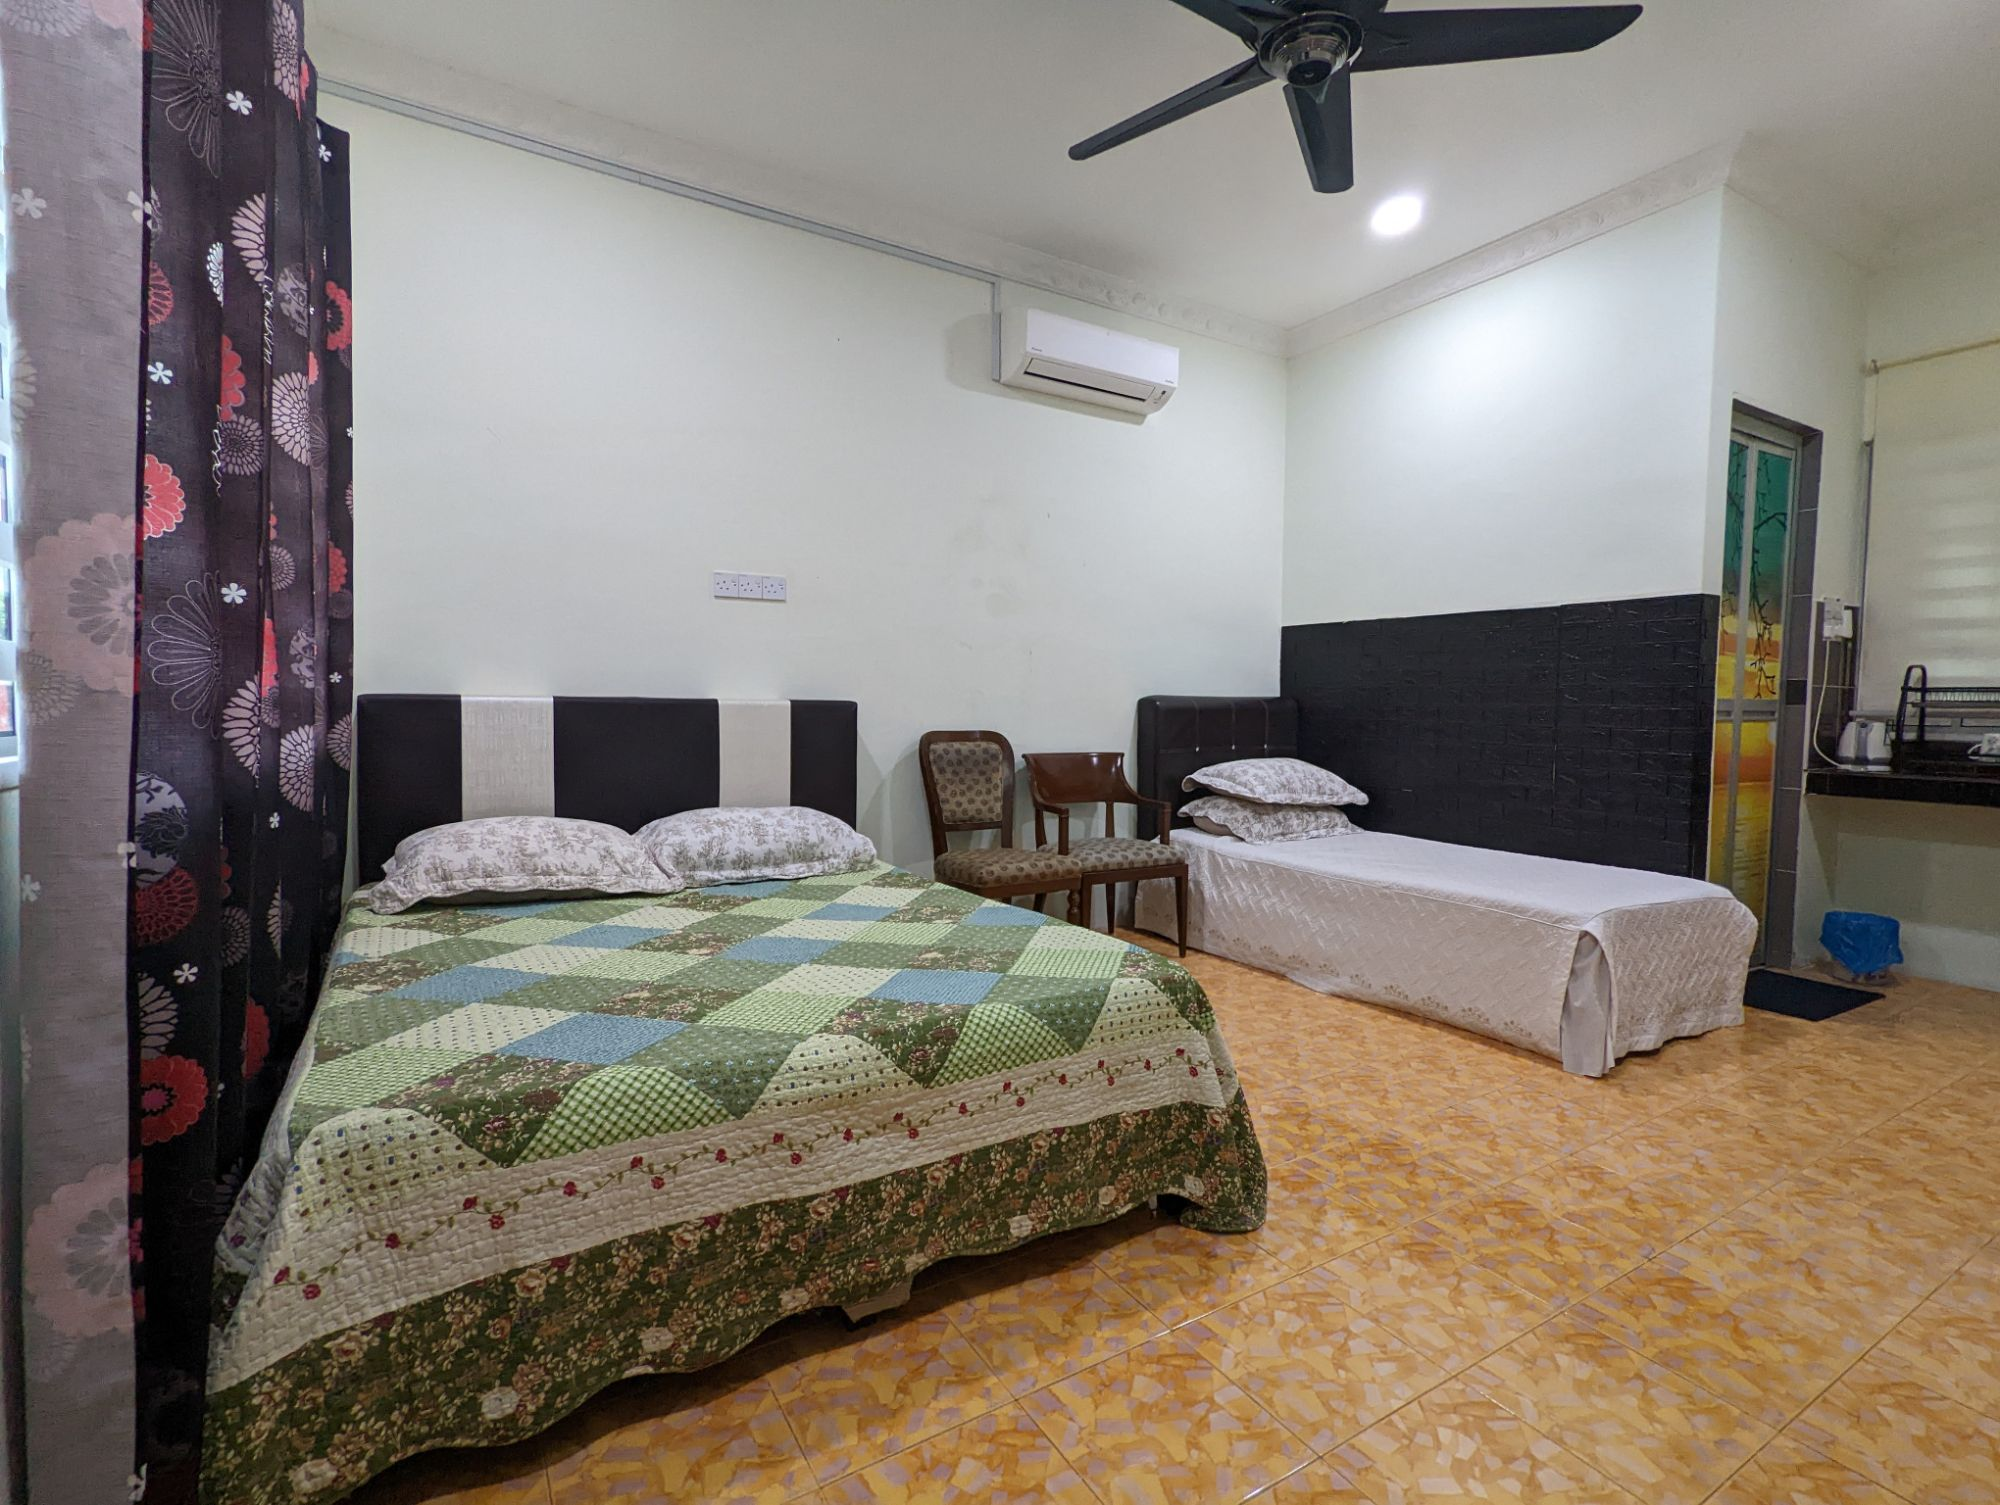
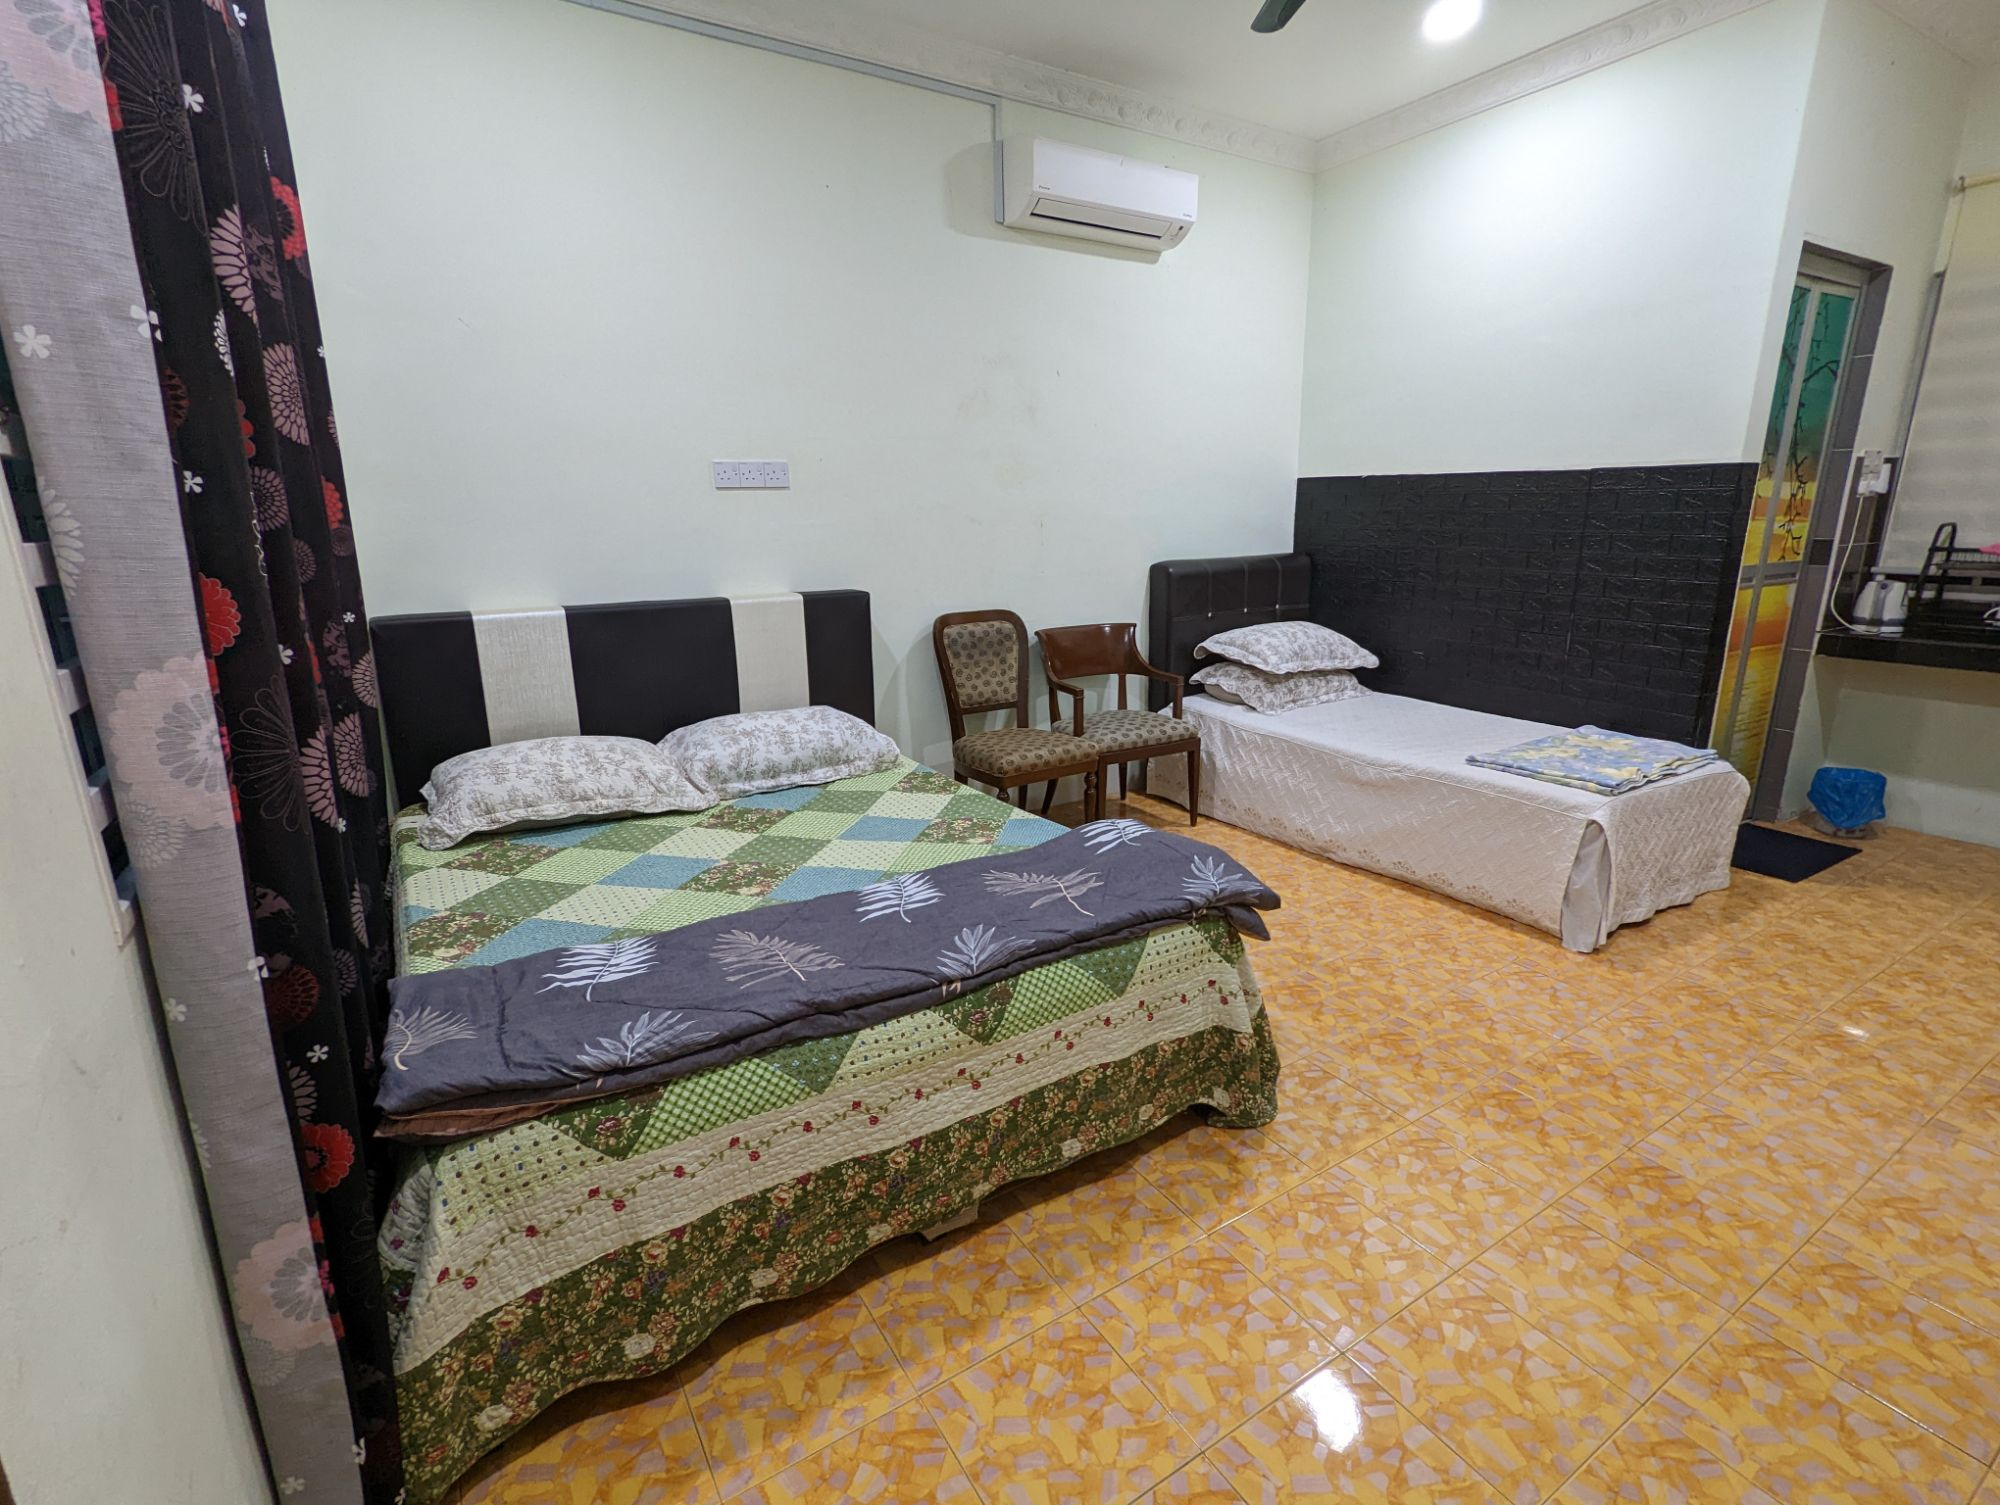
a

diff --git a/roomstay.html b/roomstay.html
@@ -42,14 +42,14 @@
         <h1 class="text-center" style="margin-bottom: 0px;padding-top: 0px;padding-bottom: 0px;font-family: 'Cormorant Upright', serif;letter-spacing: 4px;font-size: 3rem;">Roomstay</h1>
     </section>
     <div>
-        <section class="d-flex flex-column justify-content-center align-items-center justify-content-lg-center align-items-lg-center" style="background: #ecd4c2;padding-top: 30px;padding-bottom: 30px;">
+        <section class="d-flex flex-column justify-content-center align-items-center justify-content-lg-center align-items-lg-center" style="background: #ecd4c2;padding-top: 48px;padding-bottom: 30px;">
             <div class="container d-xl-flex justify-content-xl-center align-items-xl-center">
                 <div class="carousel slide" data-bs-ride="false" id="carousel-1" style="max-width: 1000px;">
                     <div class="carousel-inner" style="border-radius: 5px;border: 3px solid rgb(99,60,43) ;">
                         <div class="carousel-item active"><img class="w-100 d-block" src="assets/img/PXL_20221126_002745876.jpg" alt="Slide Image"></div>
                         <div class="carousel-item"><img class="w-100 d-block" src="assets/img/PXL_20221126_003119107.jpg" alt="Slide Image"></div>
                         <div class="carousel-item"><img class="w-100 d-block" src="assets/img/PXL_20221126_003254316.jpg" alt="Slide Image"></div>
-                        <div class="carousel-item"><img class="w-100 d-block" src="assets/img/294047442_913060316293624_1560434997083675505_n1.jpg" alt="Slide Image"></div>
+                        <div class="carousel-item"><img class="w-100 d-block" src="assets/img/b1d22026833ff6dbb4233bce7a2867a3.jpg" alt="Slide Image"></div>
                     </div>
                     <div><a class="carousel-control-prev" href="#carousel-1" role="button" data-bs-slide="prev"><span class="carousel-control-prev-icon"></span><span class="visually-hidden">Previous</span></a><a class="carousel-control-next" href="#carousel-1" role="button" data-bs-slide="next"><span class="carousel-control-next-icon"></span><span class="visually-hidden">Next</span></a></div>
                     <ol class="carousel-indicators">
@@ -93,60 +93,11 @@
     <div>
         <section class="d-flex flex-column justify-content-center align-items-center justify-content-lg-center align-items-lg-center" style="background: #ecd4c2;padding-top: 30px;padding-bottom: 30px;">
             <div class="container d-xl-flex justify-content-xl-center align-items-xl-center">
-                <div class="carousel slide" data-bs-ride="false" id="carousel-4" style="max-width: 1000px;">
-                    <div class="carousel-inner" style="border-radius: 5px;border: 3px solid rgb(99,60,43) ;">
-                        <div class="carousel-item active"><img class="w-100 d-block" src="assets/img/PXL_20221126_002745876.jpg" alt="Slide Image"></div>
-                        <div class="carousel-item"><img class="w-100 d-block" src="assets/img/PXL_20221126_003119107.jpg" alt="Slide Image"></div>
-                        <div class="carousel-item"><img class="w-100 d-block" src="assets/img/PXL_20221126_003254316.jpg" alt="Slide Image"></div>
-                        <div class="carousel-item"><img class="w-100 d-block" src="assets/img/58c76b5a8e445132248b25f632e32c5a.jpg" alt="Slide Image"></div>
-                    </div>
-                    <div><a class="carousel-control-prev" href="#carousel-4" role="button" data-bs-slide="prev"><span class="carousel-control-prev-icon"></span><span class="visually-hidden">Previous</span></a><a class="carousel-control-next" href="#carousel-4" role="button" data-bs-slide="next"><span class="carousel-control-next-icon"></span><span class="visually-hidden">Next</span></a></div>
-                    <ol class="carousel-indicators">
-                        <li data-bs-target="#carousel-4" data-bs-slide-to="0" class="active"></li>
-                        <li data-bs-target="#carousel-4" data-bs-slide-to="1"></li>
-                        <li data-bs-target="#carousel-4" data-bs-slide-to="2"></li>
-                        <li data-bs-target="#carousel-4" data-bs-slide-to="3"></li>
-                    </ol>
-                </div>
-            </div>
-        </section>
-        <section class="d-flex justify-content-center align-items-center" style="background: #ecd4c2;">
-            <h1 style="font-family: Kalam, serif;font-size: 3rem;color: var(--bs-black);">Roomstay 2</h1>
-        </section>
-        <section style="background: #ecd4c2;padding-top: 30px;padding-bottom: 30px;font-family: 'Shippori Mincho', serif;">
-            <div class="container containerha" style="padding-left: 0px;padding-right: 0px;">
-                <div class="row rowha">
-                    <div class="col-md-6 columnha">
-                        <div class="row">
-                            <div class="col"><i class="fas fa-check" style="font-size: 2rem;color: rgb(99,60,43);padding-left: 14px;padding-right: 14px;"></i><span style="font-family: 'Shippori Mincho', serif;font-size: 2rem;">1 Katil Queen</span></div>
-                        </div>
-                        <div class="row d-md-flex justify-content-md-center align-items-md-center">
-                            <div class="col"><i class="fas fa-check" style="font-size: 2rem;color: rgb(99,60,43);padding-left: 15px;padding-right: 15px;"></i><span style="font-family: 'Shippori Mincho', serif;font-size: 2rem;">1 Katil Single</span></div>
-                        </div>
-                        <div class="row d-flex d-md-flex justify-content-md-center align-items-md-center">
-                            <div class="col"><i class="fas fa-check" style="font-size: 2rem;padding-top: 0px;padding-bottom: 0px;color: rgb(99,60,43);padding-left: 14px;padding-right: 14px;"></i><span style="font-family: 'Shippori Mincho', serif;font-size: 2rem;">Air Conditioned</span></div>
-                        </div>
-                    </div>
-                    <div class="col-md-6 columnha">
-                        <div class="row">
-                            <div class="col" style="padding-right: 13px;"><i class="fas fa-check" style="font-size: 2rem;color: rgb(99,60,43);padding-left: 15px;padding-right: 15px;"></i><span style="font-family: 'Shippori Mincho', serif;font-size: 2rem;">Parking</span></div>
-                        </div>
-                        <div class="row">
-                            <div class="col"><i class="fas fa-check" style="font-size: 2rem;color: rgb(99,60,43);padding-left: 15px;padding-right: 15px;"></i><span style="font-family: 'Shippori Mincho', serif;font-size: 2rem;">Sinki</span></div>
-                        </div>
-                    </div>
-                </div>
-            </div>
-        </section>
-    </div>
-    <div>
-        <section class="d-flex flex-column justify-content-center align-items-center justify-content-lg-center align-items-lg-center" style="background: #ecd4c2;padding-top: 30px;padding-bottom: 30px;">
-            <div class="container d-xl-flex justify-content-xl-center align-items-xl-center">
                 <div class="carousel slide" data-bs-ride="false" id="carousel-3" style="max-width: 1000px;">
                     <div class="carousel-inner" style="border-radius: 5px;border: 3px solid rgb(99,60,43) ;">
-                        <div class="carousel-item active"><img class="w-100 d-block" src="assets/img/PXL_20221126_002745876.jpg" alt="Slide Image"></div>
-                        <div class="carousel-item"><img class="w-100 d-block" src="assets/img/PXL_20221126_003119107.jpg" alt="Slide Image"></div>
-                        <div class="carousel-item"><img class="w-100 d-block" src="assets/img/PXL_20221126_003254316.jpg" alt="Slide Image"></div>
+                        <div class="carousel-item active"><img class="w-100 d-block" src="assets/img/PXL_20221127_103730200.jpg" alt="Slide Image"></div>
+                        <div class="carousel-item"><img class="w-100 d-block" src="assets/img/PXL_20221127_103755082.jpg" alt="Slide Image"></div>
+                        <div class="carousel-item"><img class="w-100 d-block" src="assets/img/PXL_20221127_103836375.jpg" alt="Slide Image"></div>
                         <div class="carousel-item"><img class="w-100 d-block" src="assets/img/58c76b5a8e445132248b25f632e32c5a.jpg" alt="Slide Image"></div>
                     </div>
                     <div><a class="carousel-control-prev" href="#carousel-3" role="button" data-bs-slide="prev"><span class="carousel-control-prev-icon"></span><span class="visually-hidden">Previous</span></a><a class="carousel-control-next" href="#carousel-3" role="button" data-bs-slide="next"><span class="carousel-control-next-icon"></span><span class="visually-hidden">Next</span></a></div>
@@ -193,9 +144,9 @@
             <div class="container d-xl-flex justify-content-xl-center align-items-xl-center">
                 <div class="carousel slide" data-bs-ride="false" id="carousel-2" style="max-width: 1000px;">
                     <div class="carousel-inner" style="border-radius: 5px;border: 3px solid rgb(99,60,43) ;">
-                        <div class="carousel-item active"><img class="w-100 d-block" src="assets/img/b1d22026833ff6dbb4233bce7a2867a3.jpg" alt="Slide Image"></div>
-                        <div class="carousel-item"><img class="w-100 d-block" src="assets/img/b1d22026833ff6dbb4233bce7a2867a3.jpg" alt="Slide Image"></div>
-                        <div class="carousel-item"><img class="w-100 d-block" src="assets/img/b1d22026833ff6dbb4233bce7a2867a3.jpg" alt="Slide Image"></div>
+                        <div class="carousel-item active"><img class="w-100 d-block" src="assets/img/PXL_20221127_102818028.jpg" alt="Slide Image"></div>
+                        <div class="carousel-item"><img class="w-100 d-block" src="assets/img/PXL_20221127_103008431.jpg" alt="Slide Image"></div>
+                        <div class="carousel-item"><img class="w-100 d-block" src="assets/img/PXL_20221127_103144262.jpg" alt="Slide Image"></div>
                         <div class="carousel-item"><img class="w-100 d-block" src="assets/img/58c76b5a8e445132248b25f632e32c5a.jpg" alt="Slide Image"></div>
                     </div>
                     <div><a class="carousel-control-prev" href="#carousel-2" role="button" data-bs-slide="prev"><span class="carousel-control-prev-icon"></span><span class="visually-hidden">Previous</span></a><a class="carousel-control-next" href="#carousel-2" role="button" data-bs-slide="next"><span class="carousel-control-next-icon"></span><span class="visually-hidden">Next</span></a></div>

diff --git a/tilapia.html b/tilapia.html
@@ -41,7 +41,7 @@
     <section class="d-flex justify-content-center align-items-center" style="color: rgb(236,221,194);border-color: rgb(236,221,194);background: #633c2b;padding-top: 30px;padding-bottom: 30px;">
         <h1 class="text-center" style="margin-bottom: 0px;padding-top: 0px;padding-bottom: 0px;font-family: 'Cormorant Upright', serif;letter-spacing: 4px;font-size: 3rem;">Tilapia</h1>
     </section>
-    <section class="d-flex flex-column justify-content-center align-items-center justify-content-lg-center align-items-lg-center" style="background: #ecd4c2;padding-top: 30px;padding-bottom: 30px;">
+    <section class="d-flex flex-column justify-content-center align-items-center justify-content-lg-center align-items-lg-center" style="background: #ecd4c2;padding-top: 48px;padding-bottom: 30px;">
         <div class="container d-xl-flex justify-content-xl-center align-items-xl-center">
             <div class="carousel slide" data-bs-ride="false" id="carousel-1" style="max-width: 1000px;">
                 <div class="carousel-inner" style="border-radius: 5px;border: 3px solid rgb(99,60,43) ;">

diff --git a/homestay.html b/homestay.html
@@ -41,7 +41,7 @@
     <section class="d-flex justify-content-center align-items-center" style="color: rgb(236,221,194);border-color: rgb(236,221,194);background: #633c2b;padding-top: 30px;padding-bottom: 30px;">
         <h1 class="text-center" style="margin-bottom: 0px;padding-top: 0px;padding-bottom: 0px;font-family: 'Cormorant Upright', serif;letter-spacing: 4px;font-size: 3rem;">Homestay</h1>
     </section>
-    <section class="d-flex flex-column justify-content-center align-items-center justify-content-lg-center align-items-lg-center" style="background: #ecd4c2;padding-top: 30px;padding-bottom: 30px;">
+    <section class="d-flex flex-column justify-content-center align-items-center justify-content-lg-center align-items-lg-center" style="background: #ecd4c2;padding-top: 48px;padding-bottom: 30px;">
         <div class="container d-xl-flex justify-content-xl-center align-items-xl-center">
             <div class="carousel slide" data-bs-ride="false" id="carousel-1" style="max-width: 1000px;">
                 <div class="carousel-inner" style="border-radius: 5px;border: 3px solid #633c2b ;">
